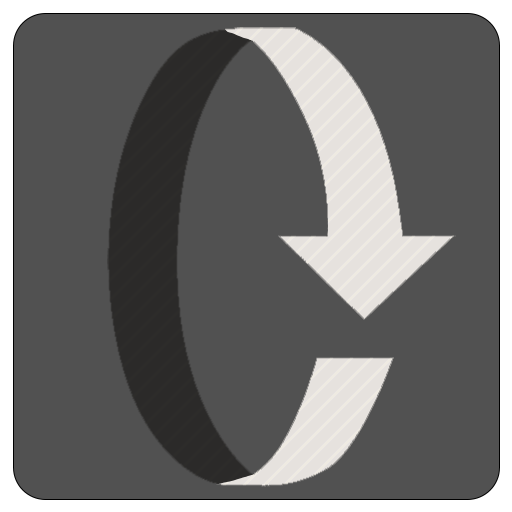
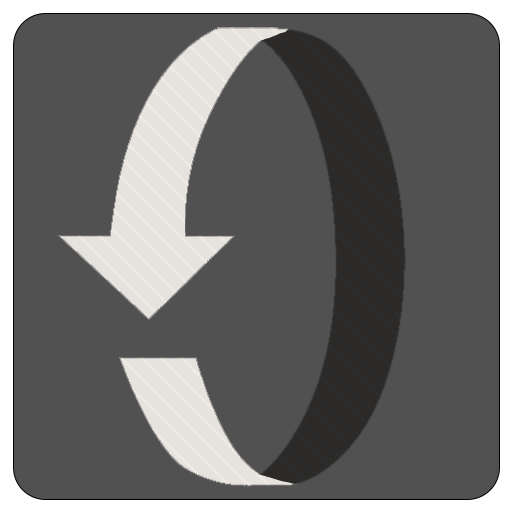
Updated images for x rotation ui and middle hint

Changed region(s): [[0.125, 0.0312, 0.875, 0.9688]]

diff --git a/main.py b/main.py
@@ -16,7 +16,7 @@ mousepos = []  # stores mouse position for rotating camera
 app = Ursina()
 # window settings
 window.borderless = False
-# window.fps_counter.enabled = False
+window.fps_counter.enabled = False
 window.exit_button.visible = False
 window.color = color.dark_gray
 
@@ -104,17 +104,17 @@ def input(key):
     global mousepos
     if not anim and not reading and not inputList.enabled:  # if not already animated, read keys and animate
         if key == 'm':  # this one is for hints, and requires a longer delay
-            anim = True
-            hintCube.rotateF()
-            invoke(endAnim, delay=.6)
+            #anim = True
+            #hintCube.rotateF()
+            #invoke(endAnim, delay=.6)
             cube.print()
-            updateCurrentHint('Move the %s %s piece above its center\n test', 'flip-2', None)
+            #updateCurrentHint('Move the %s %s piece above its center\n test', 'flip-2', None)
     if inputList.enabled and not cube.anim:#inputs string from ui textbox as a list off moves
         if key == 'enter':
             readString(inputList.text)
 
     if key == 'left mouse down':
-        invoke(checkCurrentHint, delay=cube.turnSpeed)
+        invoke(checkCurrentHint, delay=cube.turnSpeed+.25)
 
 
 
@@ -411,6 +411,16 @@ def updateCurrentHint(hintText, hintPicture, next_piece):
     if hintText != None:
         hintSpecific.icon = hintPicture
     if hintPicture != None:
+        if hintPicture == 'top.png':
+            hintSpecific.icon.scale=(.33*2, .396*2)
+        elif hintPicture == 'middleV2.png':
+            hintSpecific.icon.scale=(.33*2, .396*2)
+            hintSpecific.icon.position = (0, -.325)
+            hintSpecific.text_origin = (-.5, .4)
+        else:
+            hintSpecific.icon.scale = (.33 * 3, .396 * 3)
+            hintSpecific.icon.position = (0, -.3)
+            hintSpecific.text_origin = (-.5, .3)
         hintSpecific.text = hintText
     if next_piece != None:
         current_piece = next_piece
@@ -468,6 +478,7 @@ hintSpecific = Button(text='We need to flip the %s %s piece\n'
 hintSpecific.icon.scale = (.33*3, .396*3)
 hintSpecific.icon.position = (0,-.3)
 hintSpecific.text_origin = (-.5, .3)
+
 
 # menu buttons ==================
 exit = Button(text='Exit',text_color = color.black, model='quad', color=color.red, scale=(.2,.07), text_origin=(0,0), position=(0,-.4))

diff --git a/cubesolver.py b/cubesolver.py
@@ -61,7 +61,7 @@ def get_specific_cross_hint(cube, piece):
 		s = "Move the %s %s edge to the top layer.\nNow turn the top,\nthen undo the first move" % (*piece_colors,)
 		s += "\n\nPut the %s %s edge above the %s center,\nthen turn the %s center twice" % (*piece_colors, non_white, non_white)
 		s = fix_color_string(s)
-		img = "middle.png"
+		img = "middleV2.png"
 	elif is_edge_permuted(cube, piece):
 		# flipped in place
 		s = "We need to flip the %s %s edge" % (*piece_colors,)
